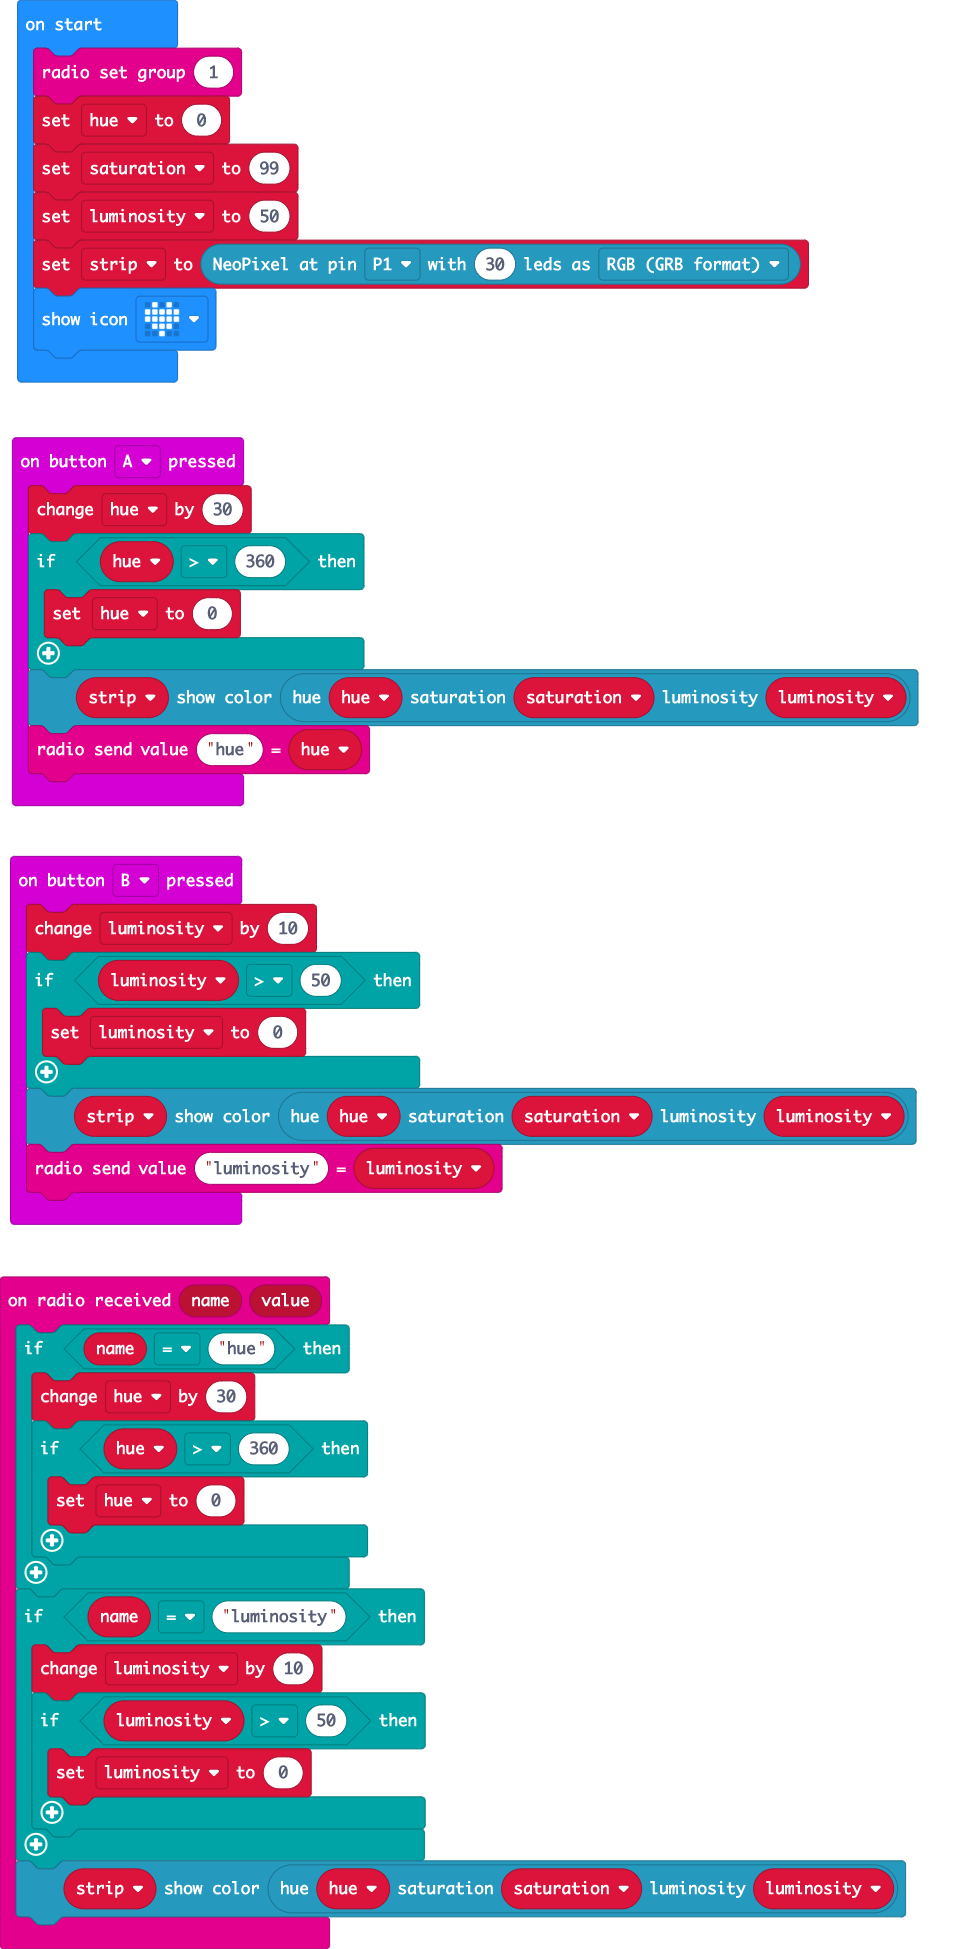
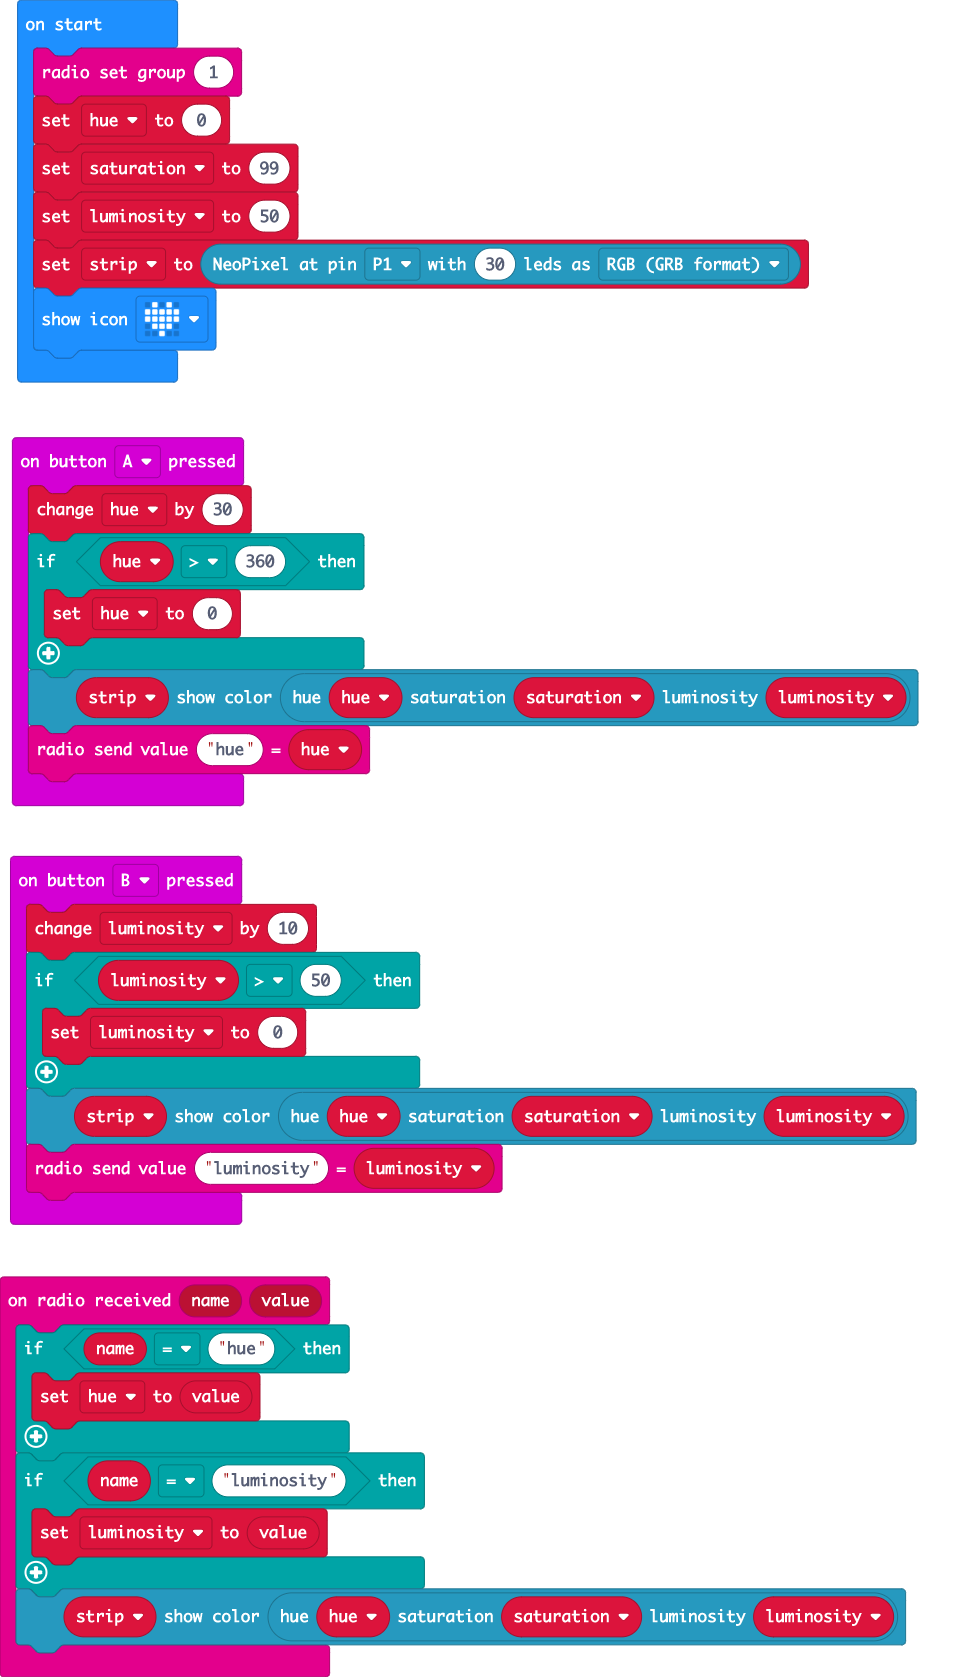
Update main.blocks, main.ts

diff --git a/main.ts b/main.ts
@@ -16,16 +16,10 @@ input.onButtonPressed(Button.B, function () {
 })
 radio.onReceivedValue(function (name, value) {
     if (name == "hue") {
-        hue += 30
-        if (hue > 360) {
-            hue = 0
-        }
+        hue = value
     }
     if (name == "luminosity") {
-        luminosity += 10
-        if (luminosity > 50) {
-            luminosity = 0
-        }
+        luminosity = value
     }
     strip.showColor(neopixel.hsl(hue, saturation, luminosity))
 })
